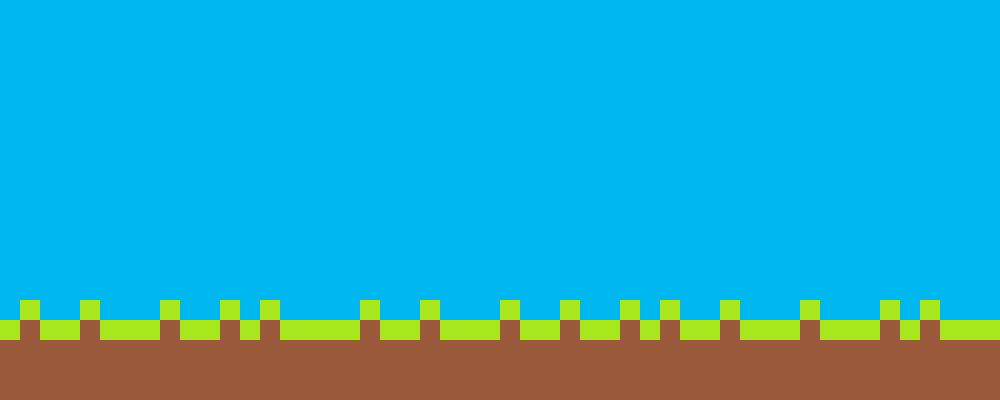
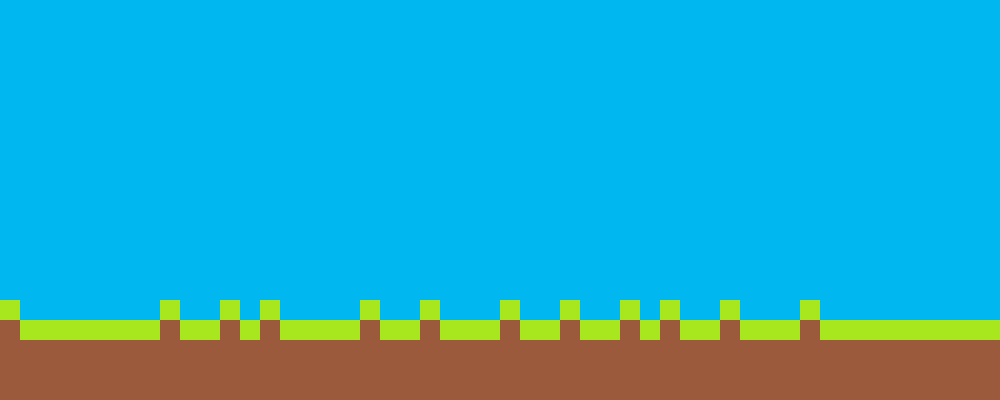
towers aren't inside the ground now

Changed region(s): [[0.0, 0.75, 0.124, 0.87], [0.868, 0.75, 0.961, 0.87]]

diff --git a/main.py b/main.py
@@ -53,8 +53,8 @@ while running:
     window.blit(background, (0, 0))
 
     # Draw towers at the very left and right ends
-    window.blit(tower_img, (0, HEIGHT - tower_img.get_height()))  # Left edge (Friendly tower)
-    window.blit(tower_img, (WIDTH - tower_img.get_width(), HEIGHT - tower_img.get_height()))  # Right edge (Enemy tower)
+    window.blit(tower_img, (0, HEIGHT - tower_img.get_height() - 80))  # Left edge (Friendly tower)
+    window.blit(tower_img, (WIDTH - tower_img.get_width(), HEIGHT - tower_img.get_height() - 80))  # Right edge (Enemy tower)
 
     # Now draw cards, units, health bars, etc.
     # Display all card images in a row with spacing
@@ -80,8 +80,8 @@ while running:
             window.blit(unit.image, (unit.position, HEIGHT - unit.image.get_height()-80))
 
     # Health bars (optional, drawn above towers)
-    pygame.draw.rect(window, (255, 0, 0), (100, 100, healthA, 10))
-    pygame.draw.rect(window, (255, 0, 0), (800, 100, healthB, 10))
+    pygame.draw.rect(window, (255, 0, 0), (100, 100, healthA/3, 10))
+    pygame.draw.rect(window, (255, 0, 0), (800, 100, healthB/3, 10))
 
     # Elixir bar settings
     max_elixer = 10
